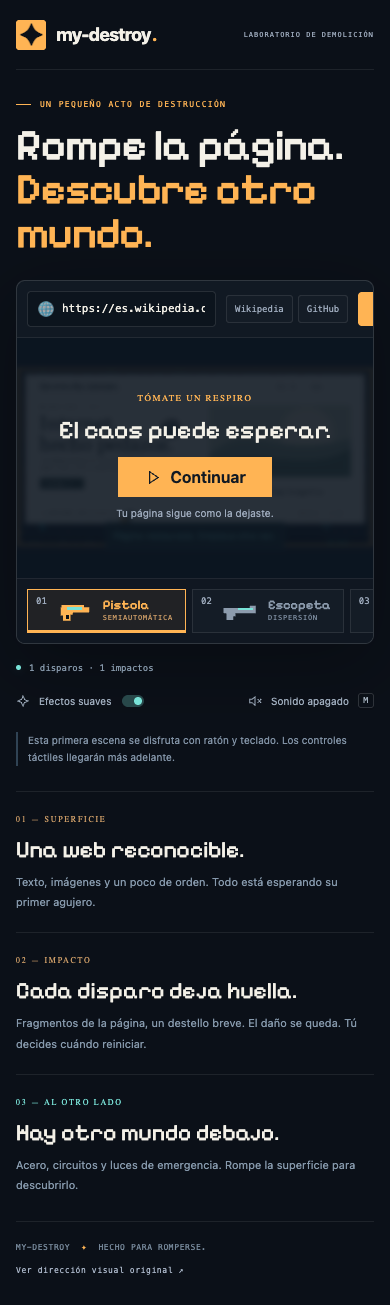
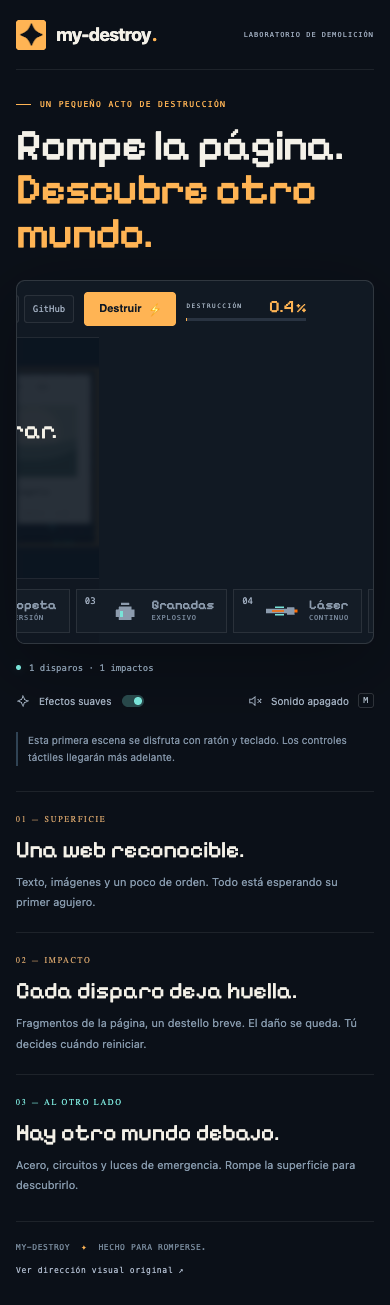
test(e2e): validar arsenal de 5 armas y agregar captura de laser y vortice

diff --git a/tests/capture.spec.ts b/tests/capture.spec.ts
@@ -156,4 +156,57 @@ test('captures DOM text splitting with tumbling letter physics', async ({ page }
   await page.screenshot({ path: 'docs/previews/dom-text-splitting.png', fullPage: true });
 });
 
+test('captures extended arsenal with laser beam and gravitational vortex', async ({ page }) => {
+  await page.setViewportSize({ width: 1280, height: 720 });
+  await page.goto('/');
+  await expect(page.locator('canvas')).toHaveCount(1);
+  await expect(page.getByRole('button', { name: 'Reiniciar' })).toBeEnabled();
+  await page.locator('canvas').focus();
+
+  const box = (await page.locator('canvas').boundingBox())!;
+
+  // 1. Switch to Slot 4: Láser Térmico Continuo
+  await page.keyboard.press('Digit4');
+  await page.waitForTimeout(100);
+
+  // Carve continuous thermal line through headline & paragraph
+  await page.mouse.move(box.x + (100 / 1152) * box.width, box.y + (200 / 584) * box.height);
+  await page.mouse.down();
+  for (let px = 100; px <= 380; px += 20) {
+    await page.mouse.move(box.x + (px / 1152) * box.width, box.y + (205 / 584) * box.height);
+    await page.waitForTimeout(30);
+  }
+  await page.mouse.up();
+  await page.waitForTimeout(200);
+
+  // Carve second slice through paragraph
+  await page.mouse.move(box.x + (100 / 1152) * box.width, box.y + (290 / 584) * box.height);
+  await page.mouse.down();
+  for (let px = 100; px <= 360; px += 25) {
+    await page.mouse.move(box.x + (px / 1152) * box.width, box.y + (295 / 584) * box.height);
+    await page.waitForTimeout(30);
+  }
+  await page.mouse.up();
+  await page.waitForTimeout(400);
+
+  // 2. Switch to Slot 5: Singularidad Gravitatoria
+  await page.keyboard.press('Digit5');
+  await page.waitForTimeout(100);
+
+  // Launch gravitational vortex into the right column
+  await page.mouse.click(box.x + (750 / 1152) * box.width, box.y + (280 / 584) * box.height);
+
+  // Wait 700ms so the vortex is fully active, swirling accretion rings, pulling debris and letters
+  await page.waitForTimeout(700);
+
+  await mkdir('docs/previews', { recursive: true });
+  await page.screenshot({ path: 'docs/previews/extended-arsenal.png', fullPage: true });
+
+  // Wait for the catastrophic implosion to finish
+  await page.waitForTimeout(1500);
+
+  const state = await page.evaluate(() => (window as any).__MY_DESTROY__.snapshot());
+  expect(state.percent).toBeGreaterThan(1);
+});
+
 

diff --git a/tests/scene.spec.ts b/tests/scene.spec.ts
@@ -147,6 +147,34 @@ test('weapon arsenal switches via hotkeys/UI and supports shotgun spread and gre
   const postBlast = await snapshot(page);
   expect(postBlast.removed).toBeGreaterThan(initialRemoved);
 
+  // Switch to laser using hotkey '4'
+  await page.locator('canvas').focus();
+  await page.keyboard.press('Digit4');
+  state = await snapshot(page);
+  expect(state.weapon).toBe('laser');
+  await expect(page.locator('.weapon-slot[data-active="true"]')).toContainText('Láser');
+
+  // Continuous laser fire via holding mouse down
+  const preLaserShots = (await snapshot(page)).shots;
+  const box = (await page.locator('canvas').boundingBox())!;
+  await page.mouse.move(box.x + (500 / 1152) * box.width, box.y + (280 / 584) * box.height);
+  await page.mouse.down();
+  await page.waitForTimeout(300);
+  await page.mouse.up();
+  await expect.poll(async () => (await snapshot(page)).shots).toBeGreaterThan(preLaserShots + 2);
+
+  // Switch to vortex using UI button
+  await page.locator('.weapon-slot', { hasText: 'Vórtice' }).click();
+  state = await snapshot(page);
+  expect(state.weapon).toBe('vortex');
+
+  // Fire gravitational vortex into demo area
+  const preVortexRemoved = (await snapshot(page)).removed;
+  await fire(page, 450, 260);
+  await page.waitForTimeout(2000); // 1.6s fuse + implosion blast
+  const postVortex = await snapshot(page);
+  expect(postVortex.removed).toBeGreaterThan(preVortexRemoved);
+
   // Switch back to pistol using hotkey '1'
   await page.locator('canvas').focus();
   await page.keyboard.press('Digit1');
